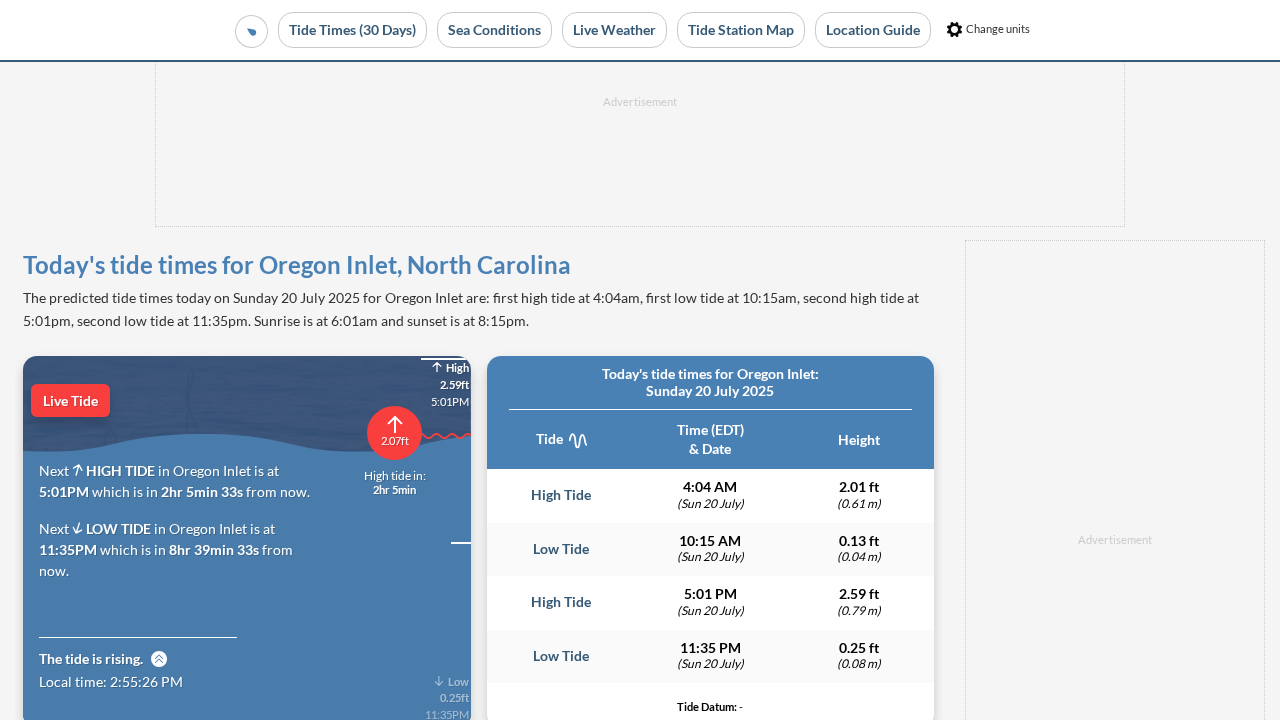
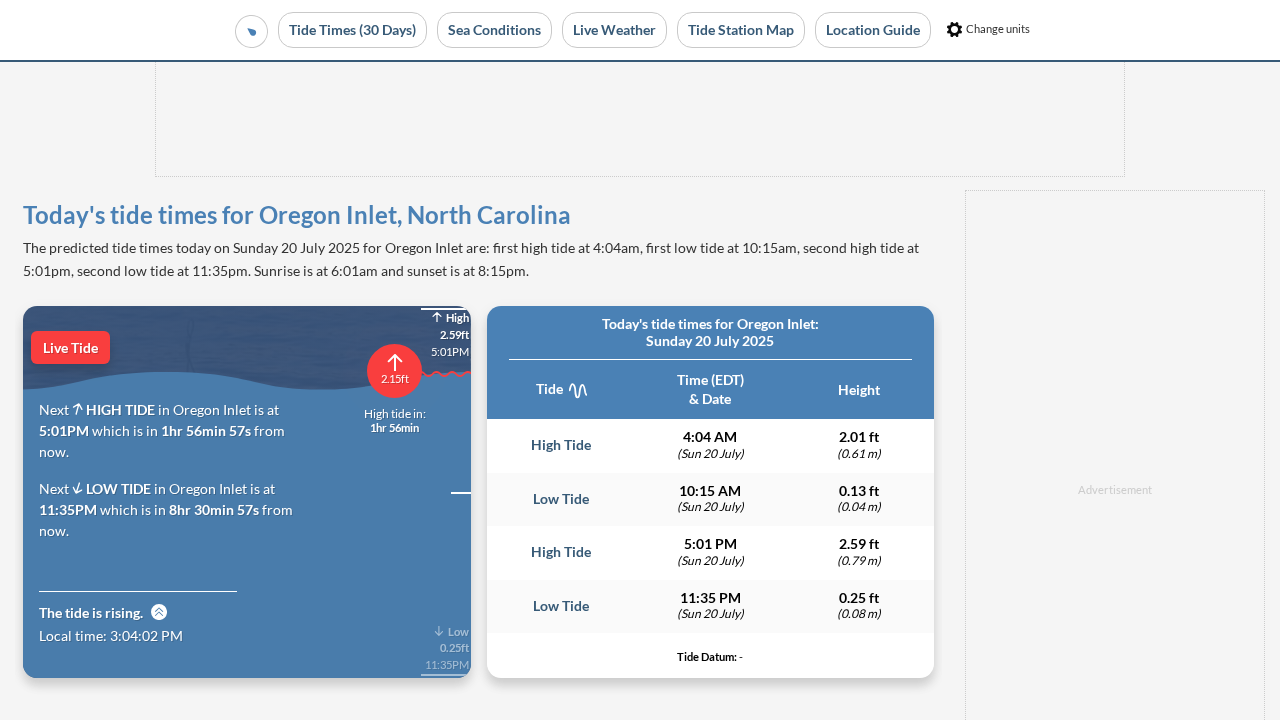
checkin resources: 2025-07-20 15:04:04

diff --git a/docs/wa/pw/example.spec.js b/docs/wa/pw/example.spec.js
@@ -14,7 +14,7 @@ test('capture screenshots', async ({ page }) => {
   await page.goto('https://www.tide-forecast.com/locations/Oregon-Inlet-North-Carolina/tides/latest');
   const title = await page.title();
   await page.evaluate(() => {
-    window.scrollTo(0, 300); // Scroll to y pixels
+    window.scrollTo(0, 350); // Scroll to y pixels
   });
   // await page.waitForTimeout(5000); // pauses for 3 second
   await page.screenshot({ path: '/tmp/wa/tides.png' });
